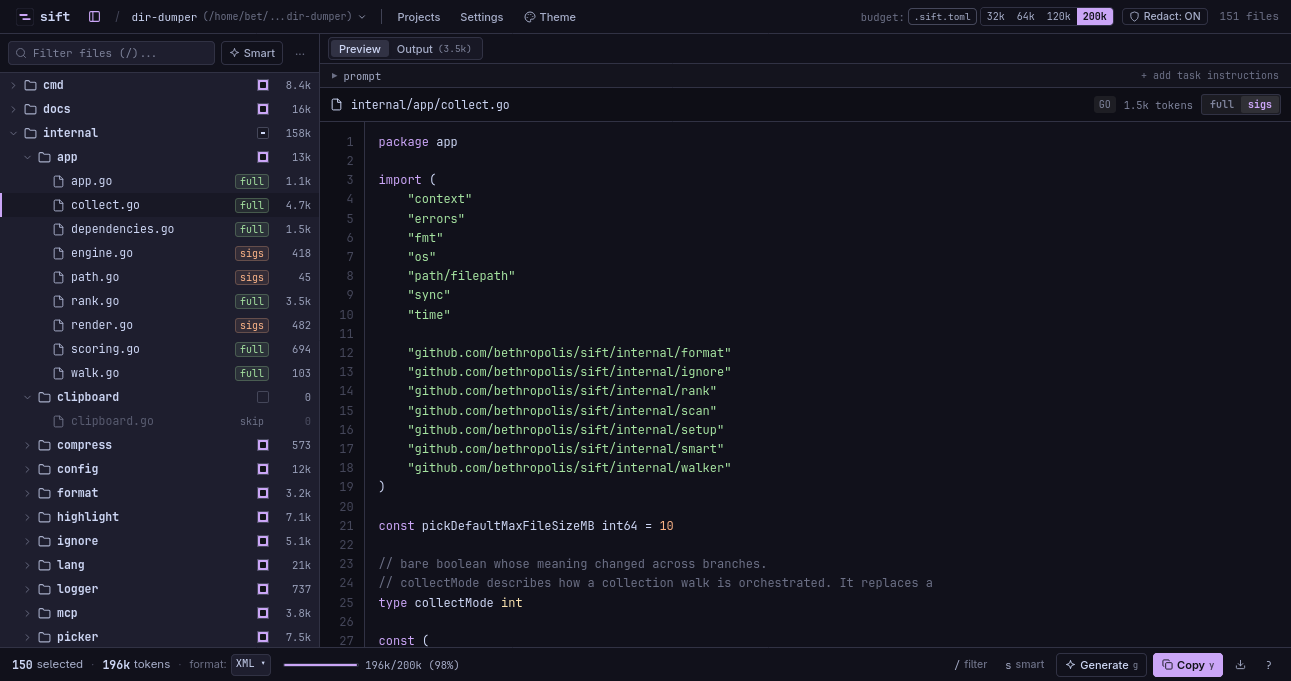
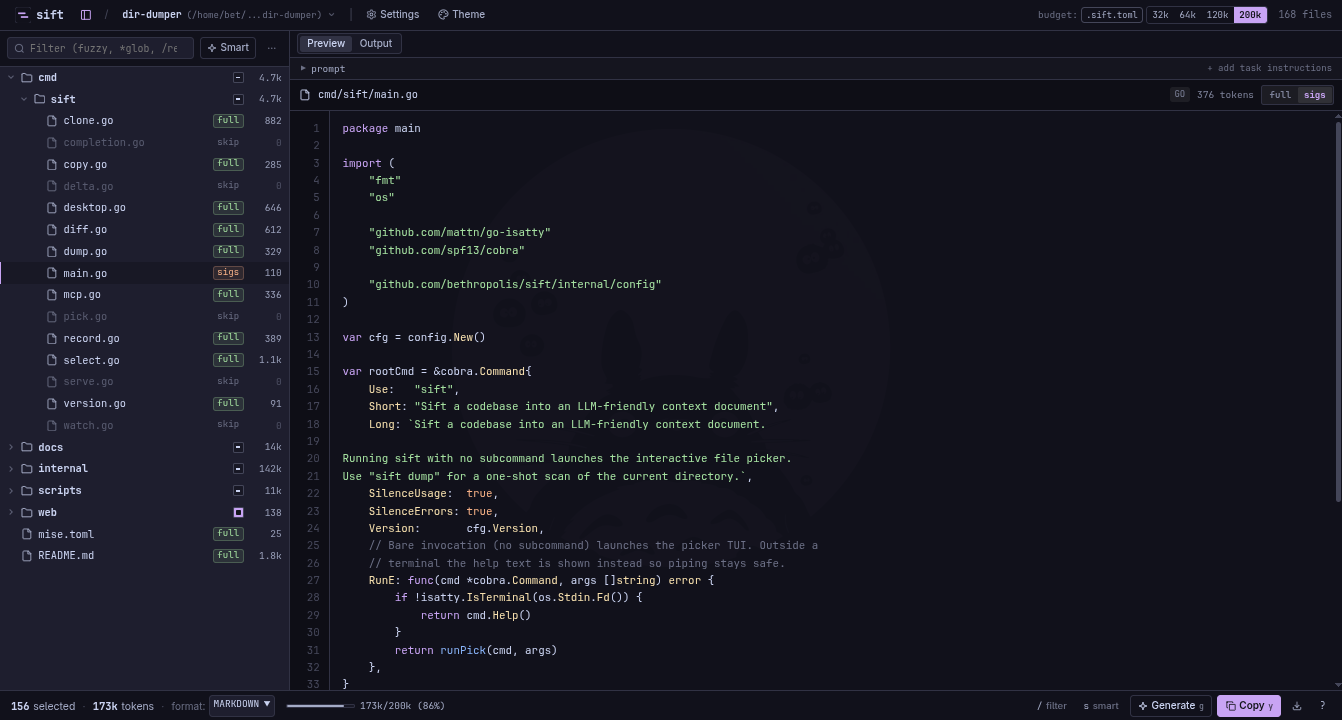
Refresh README, web preview, and explorer scrollbar

diff --git a/web/src/components/FileTree.svelte b/web/src/components/FileTree.svelte
@@ -530,6 +530,7 @@
     overflow-y: auto;
     overflow-x: hidden;
     position: relative;
+    scrollbar-gutter: stable;
     scrollbar-width: thin;
     scrollbar-color: var(--border-strong) transparent;
   }

diff --git a/README.md b/README.md
@@ -6,106 +6,109 @@
 [![Go Reference](https://pkg.go.dev/badge/github.com/bethropolis/sift.svg)](https://pkg.go.dev/github.com/bethropolis/sift/)
 [![Go Version](https://img.shields.io/badge/Go-1.26+-a6e3a1?style=flat-square&logo=go&labelColor=1e1e2e)](https://golang.org/doc/go1.26)
 
-`sift` turns a project directory into a single LLM-ready context document. It
-walks the tree, respects `.gitignore`, and renders the result as plain text,
-Markdown, JSON, or XML, with token budgeting, secret redaction, signature-only
-compression, and git-relevance ranking so the most important code fits inside
-a model's context window.
+Your repo is too big to paste into a chatbot. That's the whole problem.
+`sift` fixes it: point it at a directory, get back one clean document with
+exactly the code the model needs.
 
 ![Sift's interactive picker showing the file tree, live token counts, and a preview pane](docs/assets/picker-screenshot.png)
 
 ## What it does
 
-Sift scans a repo, filters out the noise (`.gitignore`, hidden files,
-binaries, lockfiles), and packs what's left into one document you hand to an
-LLM. Along the way it:
+sift walks a project directory, skips what you wouldn't paste into a prompt (`.gitignore`d files, dotfiles, binaries, lockfiles), and writes the rest to a single document for an LLM. Output can be plain text, Markdown, JSON, or XML.
 
-* Counts tokens against a `--budget` and keeps the highest-priority files
-  when the budget is tight, using git relevance to decide what matters:
-  modified files first, then recent diffs, then recent commits.
-* Redacts secrets (AWS, GitHub, Slack, Google, Stripe keys) before anything
-  gets rendered.
-* Compresses files to signatures only (`--mode signatures`) via tree-sitter,
-  keeping declarations and comments while dropping function bodies. Go,
-  Rust, JavaScript/TypeScript (incl. TSX), Python, PHP, Java, Kotlin, C#,
-  C/C++, Ruby, Swift, Dart/Flutter, and Zig are supported.
-* Copies straight to the clipboard with `--clipboard`, or writes to a file,
-  or streams to stdout. `sift copy` copies an existing `codebase.md` document
-  for pasting into another app.
+Files are ranked by git relevance: modified files first, then files in recent diffs, then files in recent commits. Pass `--budget 200k` and sift fills the document in that order and stops when the budget is used up.
 
-`dump`, `pick`, `select`, `clone`, `copy`, `diff`, `delta`, `watch`, and `serve` cover the different
-ways you'd want to generate that document: a full one-shot scan, an
-interactive selection, an automatic budget-aware selection, just what
-changed relative to a git ref, just what changed since your last dump, or a
-document that keeps re-rendering as you edit.
+Secrets are redacted before anything is rendered. This covers AWS, GitHub, Slack, Google, and Stripe keys.
 
-## Interactive picker
+With `--mode signatures`, sift uses tree-sitter to keep declarations and comments and drop function bodies. You keep the structure of the code at a fraction of the tokens.
 
-`sift pick` (or bare `sift`) opens a dual-pane TUI: a foldable file tree on
-the left with three-state checkboxes and live token counts, a preview pane
-with syntax highlighting and secret warnings on the right, and a budget bar
-in the footer.
+The result can go to a file, stdout, or the clipboard (`--clipboard`). `sift copy` puts the last `codebase.md` back on the clipboard.
 
-Each file can be `FULL`, `SIGS` (signature-only), or `SKIP`, cycled with `m`.
-Press `s` to smart-select by git relevance and budget, `/` to fuzzy-filter
-the tree, `p` to attach a task prompt (with presets for review, refactor,
-bug investigation, and so on), and `Y` to generate the selected context and
-copy `codebase.md`.
-`d` opens the delta modal for picking a commit range interactively. Nerd
-Font glyphs are on by default; pass `--no-nerd-fonts` for plain ASCII.
+<details>
+<summary>Languages supported in signature mode</summary>
 
-See [docs/picker.md](docs/picker.md) for the full keybinding reference.
+Go, Rust, JavaScript/TypeScript (including TSX), Python, PHP, Java, Kotlin, C#, C/C++, Ruby, Swift, Dart/Flutter, Zig.
+
+</details>
+
+### Commands
+
+| Command  | Description                                       |
+| :------- | :------------------------------------------------ |
+| `dump`   | Render every eligible file                        |
+| `pick`   | Choose files yourself in the TUI, then render     |
+| `select` | Let git relevance and the budget choose the files |
+| `clone`  | Clone a repo, then run on it                      |
+| `copy`   | Re-copy the last output to the clipboard          |
+| `diff`   | Render files changed relative to a git ref        |
+| `delta`  | Render files changed since the last dump          |
+| `watch`  | Re-render whenever files change                   |
+| `serve`  | Run sift from a browser                           |
+
+Running `sift` with no command opens the picker.
+
+## Picker
+
+`sift pick` (or just `sift`) opens a two-pane TUI: file tree on the left, preview on the right, and a budget bar at the bottom.
+
+Each file is in one of three modes: `FULL`, `SIGS`, or `SKIP`. Press `m` to cycle a file through them, or press `s` to have git relevance assign modes for you. `/` starts a fuzzy search. `p` attaches a task prompt, with presets for review, refactor, and debugging. `Y` builds `codebase.md` and copies it to the clipboard. `d` opens the commit-range picker.
+
+Nerd Font icons are on by default. Pass `--no-nerd-fonts` to turn them off.
+
+The full key list is in [docs/picker.md](docs/picker.md).
+
+## Rather click? Use the browser.
+
+`sift serve` runs the same picker as a web UI. `sift serve --app` goes one further: chromeless window, auto-login, and closing the window stops the server.
+
+![Sift's web UI with the same file tree, live token counts, and preview pane, running in a browser](docs/assets/picker-web.png)
+
+Details: [docs/serve.md](docs/serve.md).
 
 ## Incremental deltas
 
-A full dump gets expensive to re-send on every turn. `sift delta` renders
-only what changed since the last recorded dump, keyed by the project's
-absolute path and stored under `~/.config/sift/state.json`, outside the repo.
+`sift delta` renders only what changed since the last recorded dump.
+`--patch` emits a raw unified diff instead, which is cheaper token-wise:
 
 ```bash
-sift delta                 # full content of files changed since last dump
-sift delta --patch         # raw unified diff in a <context_update> block
-sift delta --since main    # compare against a specific ref or branch
 sift delta --patch --clipboard
+sift delta --since main
 ```
-
-`--patch` is the cheaper option token-wise: it emits the raw `git diff`
-between the recorded baseline and `HEAD`, wrapped in a `<context_update>`
-block, instead of full file contents.
 
 ## Installation
 
-macOS and Linux:
+**macOS / Linux** — installs to `~/.local/bin`:
 
 ```bash
 curl -fsSL https://bethropolis.github.io/sift/install.sh | sh
 ```
 
-This installs to `~/.local/bin`; set `SIFT_INSTALL_DIR` to change that.
-
-Homebrew:
+**macOS (Homebrew):**
 
 ```bash
 brew install bethropolis/tap/sift
 ```
 
-Windows (Scoop):
+**Arch Linux (AUR):**
+
+```bash
+yay -S sift-context-bin
+```
+
+**Windows (Scoop):**
 
 ```powershell
 scoop bucket add bethropolis https://github.com/bethropolis/scoop-bucket
 scoop install sift
 ```
 
-Go:
+**Go toolchain** (CLI only — no embedded `serve` web UI):
 
 ```bash
 go install github.com/bethropolis/sift/cmd/sift@latest
 ```
 
-Prebuilt archives for Linux, Windows, macOS, FreeBSD, and Android (amd64 and
-arm64) are on the
-[releases page](https://github.com/bethropolis/sift/releases). Or build from
-source:
+**From source or a prebuilt archive:**
 
 ```bash
 git clone https://github.com/bethropolis/sift.git
@@ -113,21 +116,35 @@ cd sift
 ./scripts/install.sh
 ```
 
+Prebuilt archives for Linux, Windows, macOS, FreeBSD, and Android (amd64 and
+arm64) are on the
+[releases page](https://github.com/bethropolis/sift/releases).
+
+<details>
+<summary>Uninstall</summary>
+
+From a checkout: `./scripts/uninstall.sh` (`--purge` also removes
+`~/.config/sift`). Otherwise use your package manager (`brew uninstall`,
+`scoop uninstall`, `rm ~/.local/bin/sift`). Full details:
+[docs/installation.md](docs/installation.md).
+
+</details>
+
 ## Usage
 
 ```bash
-sift                # bare invocation launches the interactive picker
-sift dump [path]    # scan a directory and render its contents
+sift                # interactive picker
+sift dump [path]    # scan a directory (writes codebase.md next to the root)
 sift pick [path]    # interactively choose files, then render
 sift select [path]  # automatically select useful files
-sift diff [ref]     # dump files changed relative to a git ref
-sift delta [path]   # dump only changes since the last recorded dump
-sift watch [path]   # re-render the document on file changes
-sift serve          # serve the browser file picker (http://127.0.0.1:7777)
+sift diff [ref]     # files changed relative to a git ref
+sift delta [path]   # only changes since the last recorded dump
+sift watch [path]   # re-render on file changes
+sift serve          # browser picker at http://127.0.0.1:7777
 ```
 
-`sift dump` writes `codebase.md` next to the scanned root by default; use
-`--output -` to write to stdout instead.
+<details>
+<summary>More examples</summary>
 
 ```bash
 sift dump --style markdown
@@ -136,58 +153,57 @@ sift dump --budget 50000
 sift dump --mode signatures --style xml
 sift dump --prompt "Review this codebase for race conditions."
 sift select . --selection-only --print-selection
-sift select . --selection-only --selection-format json
 sift pick --no-nerd-fonts
 ```
 
-Run `sift --help` or `sift <command> --help` for the full flag list,
-including profiles, ignore rules, secret scanning, and window-title
-configuration.
+`sift dump` writes `codebase.md` by default; `--output -` writes to stdout
+instead. `sift --help` lists everything else (profiles, ignore rules, secret
+scanning).
+
+</details>
 
 ## Profiles
 
 A `.sift.toml` in the scanned directory, or `~/.config/sift/config.toml`
-globally, packages a set of flags under a name you reference with
-`--profile`:
+globally, bundles flags under a `--profile` name. Flags always win over
+profile values:
 
 ```toml
 [profiles.claude]
 style = "xml"
 budget = 60000
-
-[profiles.rust-strict]
-extensions = ["rs"]
-mode = "signatures"
-prompt = "Review this Rust codebase for unsafe usage."
+compress_mode = "signatures"
+extensions = ["go", "md"]
+ignore = ["vendor/**", "testdata/**"]
+prompt_file = "prompts/review.md"
+smart_filter = true
+copy_on_generate = true
 ```
 
 ```bash
 sift dump --profile claude
 ```
 
-Command-line flags always win over profile values.
-
 ## Documentation
 
 - [Installation](docs/installation.md)
 - [Usage](docs/usage.md)
 - [Interactive picker](docs/picker.md)
+- [Web UI (`serve`)](docs/serve.md)
 - [Configuration and profiles](docs/configuration.md)
 - [Output formats and prompts](docs/output.md)
 - [Incremental deltas](docs/delta.md)
 
 ## Development
 
-Needs Go 1.26+ and a POSIX shell for the helper scripts.
+Needs Go 1.26+ and a POSIX shell (`just test`, `just test-race`, `just build`,
+`just dump`, `just pick` cover the common recipes):
 
 ```bash
 go test ./...
 go vet ./...
 go test -race ./...
 ```
-
-`just test`, `just test-race`, `just build`, `just dump`, and `just pick`
-cover the common `justfile` recipes.
 
 ## Contributing
 
